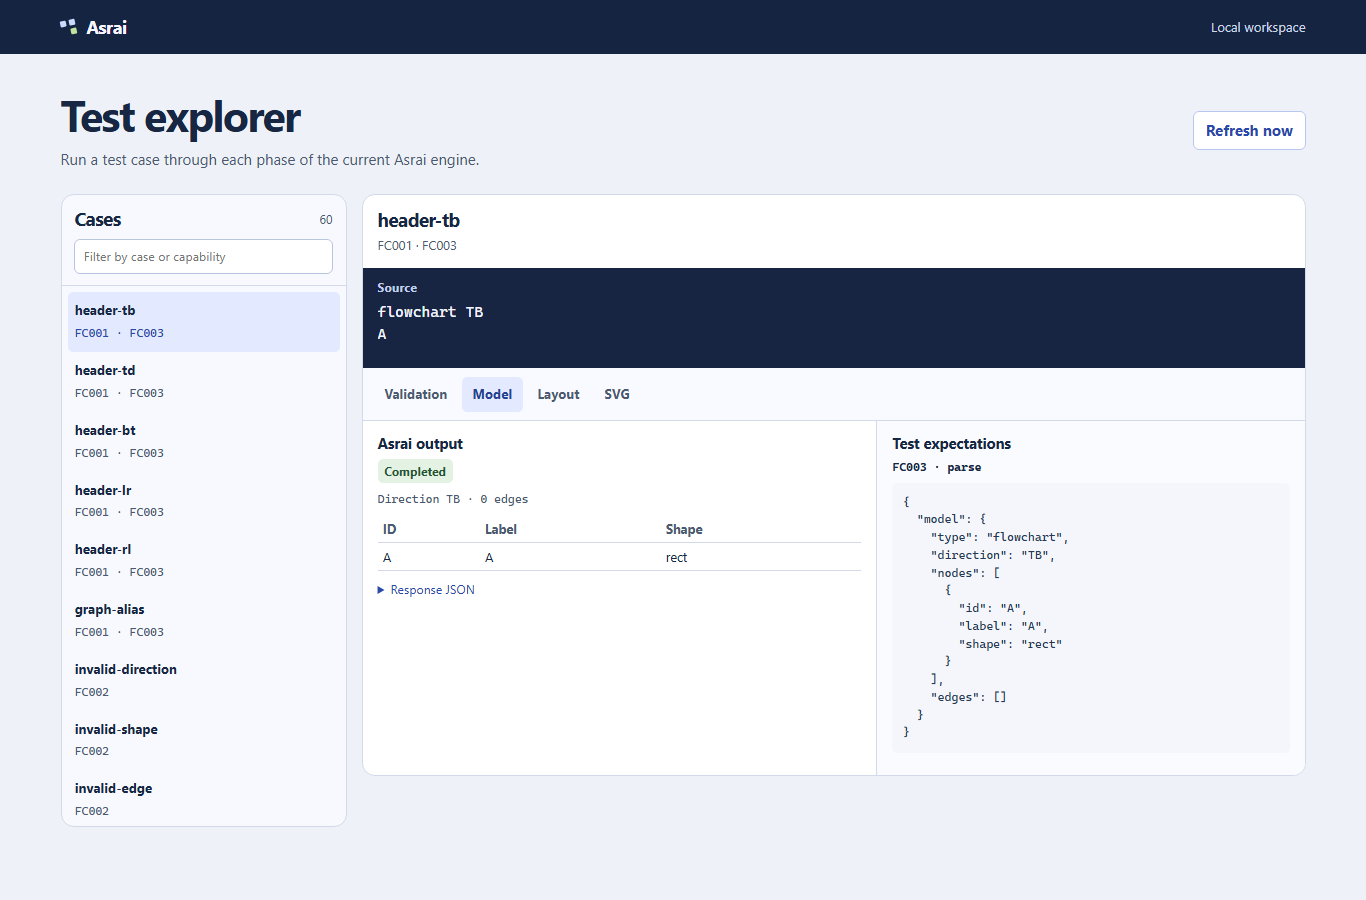
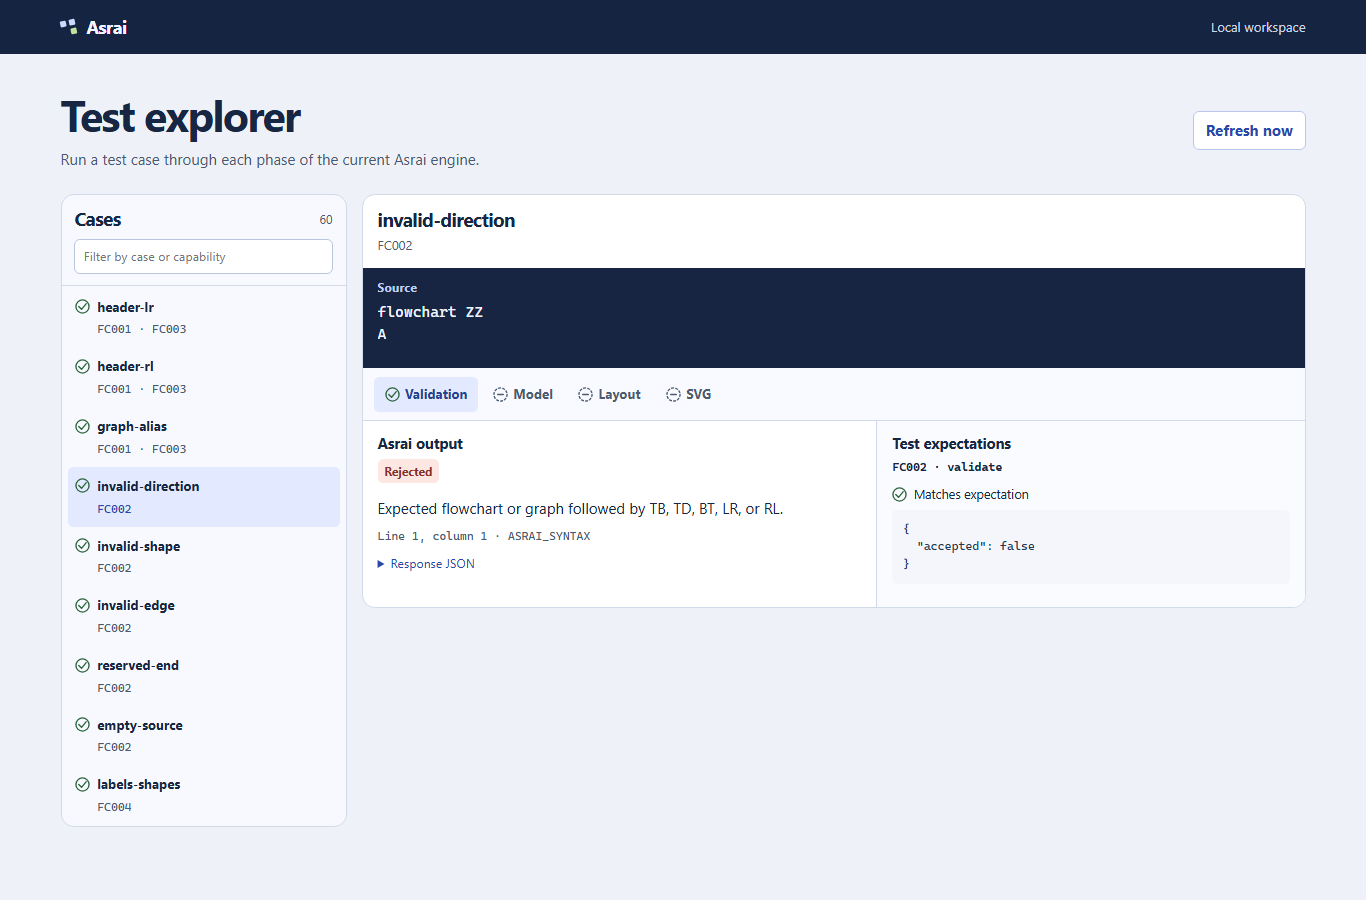
Show live expectation matches in the Asrai explorer

diff --git a/docs/reviews/interactive/style.css b/docs/reviews/interactive/style.css
@@ -59,13 +59,15 @@ main { padding-bottom: 3rem; }
 #search { display: block; margin-top: .63rem; width: 100%; border: 1px solid #b8c5df; color: var(--ink); padding: .46rem .55rem; border-radius: .4rem; background: var(--white); font-size: .83rem; }
 #case-list { max-height: min(36rem, 61vh); overflow: auto; padding: .4rem; }
 .case-choice {
-  display: block; width: 100%; min-width: 0; text-align: left; padding: .58rem .48rem;
+  display: flex; align-items: flex-start; gap: .5rem; width: 100%; min-width: 0; text-align: left; padding: .58rem .48rem;
   border: 0; border-radius: .35rem; background: transparent; color: var(--muted);
 }
 .case-choice strong { display: block; color: var(--ink); font-size: .88rem; overflow-wrap: anywhere; }
 .case-choice:hover { background: #eef2fc; }
 .case-choice[aria-pressed="true"] { background: var(--accent-soft); color: var(--accent); }
 .case-choice:focus-visible { outline-offset: -3px; }
+.case-choice > .verdict-icon { margin-top: .18rem; }
+.case-label { min-width: 0; }
 .empty { color: var(--muted); padding: .45rem; }
 
 .case-header { padding: .95rem 1rem; }
@@ -75,6 +77,7 @@ main { padding-bottom: 3rem; }
 .sample pre { margin: .46rem 0 0; min-height: 3.7rem; max-height: 10rem; overflow: auto; overflow-wrap: anywhere; white-space: pre-wrap; }
 .phases { display: flex; flex-wrap: wrap; gap: .24rem; padding: .55rem .75rem; border-bottom: 1px solid var(--line); background: #f9faff; }
 .phases button {
+  display: inline-flex; align-items: center; gap: .36rem;
   min-height: 2.35rem; border: 0; border-radius: .35rem; background: transparent; color: var(--muted);
   padding: .32rem .72rem; font-size: .88rem; font-weight: 650;
 }
@@ -92,6 +95,15 @@ main { padding-bottom: 3rem; }
 .good { background: #e3f2e3; color: #245432; }
 .bad { background: #fce7e3; color: #882f27; }
 .neutral { background: #e9edf5; color: #475771; }
+.verdict-icon { display: inline-flex; flex: none; width: 1rem; height: 1rem; color: var(--muted); }
+.verdict-icon svg { width: 100%; height: 100%; fill: none; stroke: currentColor; stroke-width: 1.45; stroke-linecap: round; stroke-linejoin: round; }
+.verdict-icon[data-verdict="pass"] { color: #2c653a; }
+.verdict-icon[data-verdict="fail"] { color: #a0382c; }
+.verdict-icon[data-verdict="unavailable"] { color: #7d520d; }
+.verdict-icon[data-verdict="none"] circle { stroke-dasharray: 2 2.4; }
+.expectation-note { display: flex; align-items: center; gap: .42rem; font-size: .84rem; }
+.expectation-group + .expectation-group { margin-top: .9rem; }
+.expectation-failures { padding-left: 1.22rem; color: #882f27; font-size: .84rem; }
 .diagnostics { display: grid; gap: .46rem; padding: 0; margin: .4rem 0; list-style: none; }
 .drawing { display: block; max-width: 100%; width: 100%; max-height: 19rem; object-fit: contain; margin-top: .55rem; padding: .6rem; border: 1px solid var(--line); border-radius: .4rem; background: #f9fbff; }
 table { width: 100%; margin: .46rem 0; border-collapse: collapse; font-size: .85rem; overflow-wrap: anywhere; }

diff --git a/docs/reviews/interactive/index.html b/docs/reviews/interactive/index.html
@@ -45,10 +45,10 @@
           <pre id="source"></pre>
         </div>
         <div id="phases" class="phases" role="group" aria-label="Pipeline phase">
-          <button type="button" data-operation="validate" aria-pressed="true">Validation</button>
-          <button type="button" data-operation="parse" aria-pressed="false">Model</button>
-          <button type="button" data-operation="layout" aria-pressed="false">Layout</button>
-          <button type="button" data-operation="render" aria-pressed="false">SVG</button>
+          <button type="button" data-operation="validate" aria-pressed="true"><span class="verdict-icon"></span>Validation</button>
+          <button type="button" data-operation="parse" aria-pressed="false"><span class="verdict-icon"></span>Model</button>
+          <button type="button" data-operation="layout" aria-pressed="false"><span class="verdict-icon"></span>Layout</button>
+          <button type="button" data-operation="render" aria-pressed="false"><span class="verdict-icon"></span>SVG</button>
         </div>
         <div class="result">
           <div class="output" id="output">

diff --git a/docs/reviews/interactive/README.md b/docs/reviews/interactive/README.md
@@ -6,7 +6,9 @@ Run this from the repository root:
 node docs/reviews/interactive/preview.mjs
 ```
 
-Open [the local test explorer](http://127.0.0.1:4173/). Choose a case, then select **Validation**, **Model**, **Layout**, or **SVG**. Each phase shows the live Asrai response and that case’s expectations, when available. Layout draws the returned node bounds and edge paths. SVG displays the image returned by the engine and gives access to its markup.
+Open [the local test explorer](http://127.0.0.1:4173/). Choose a case, then select **Validation**, **Model**, **Layout**, or **SVG**. The output pane shows what Asrai did. The expectations pane shows whether the response matched each check and gives reasons for mismatches. Layout draws the returned node bounds and edge paths. SVG displays the image returned by the engine and gives access to its markup.
+
+A check mark means all expectations for that case or phase match. A cross means at least one differs. A dashed circle with a dash means there is no expectation. A clock marks pending checks, and an exclamation mark marks checks the explorer could not complete. A rejection can match an expectation, as the `invalid-direction` case demonstrates.
 
 The catalog includes authored flowchart fixtures and the evaluator’s seeded generated cases, including cases for work still in progress. The page checks for changes every two seconds while visible. Saving a fixture or generator update refreshes the catalog. Saving product code reruns the selected phase. Every run starts a fresh adapter process, so new engine behavior is available without rebuilding or restarting the explorer. **Refresh now** runs the selected phase immediately.
 
@@ -16,11 +18,11 @@ By default the explorer uses its own checkout. To follow another worktree, pass 
 node docs/reviews/interactive/preview.mjs 4175 --workspace "/path/to/Asrai"
 ```
 
-The runner binds to loopback, calls Asrai’s regular adapter using the configured process limits, and reads expectations from the chosen worktree. The independent evaluator remains the source of acceptance verdicts.
+The runner binds to loopback, calls Asrai’s regular adapter using the configured process limits, and reads expectations from the chosen worktree. Explorer verdicts are live development feedback. The independent evaluator remains the source of acceptance evidence. SVG comparisons use the repository’s browser tooling. Install it with the commands below when you want to check SVG output.
 
 ![Screenshot of the Asrai test explorer](screenshot.png)
 
-The screenshot shows the authored `header-tb` case and an actual model response. The interactive catalog opens on the first fixture by default.
+The screenshot shows `invalid-direction`, where the actual validation rejection matches the test expectation. The interactive catalog opens on the first fixture by default.
 
 ## Browser verification
 
